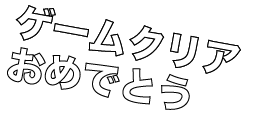
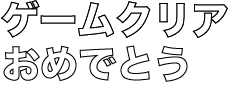
NPCエンディング画像にウィングドーザを追加した

Changed region(s): [[0.0, 0.0, 0.9585, 0.84]]

diff --git a/src/css/npc-ending.css b/src/css/npc-ending.css
@@ -28,10 +28,11 @@
 
 .npc-ending__end {
   object-fit: cover;
-  width: 50vw;
+  width: 40vw;
+  transform: rotate(20deg);
 }
 
 .npc-ending__logo {
   object-fit: cover;
-  width: 30vw;
+  width: 40vw;
 }
